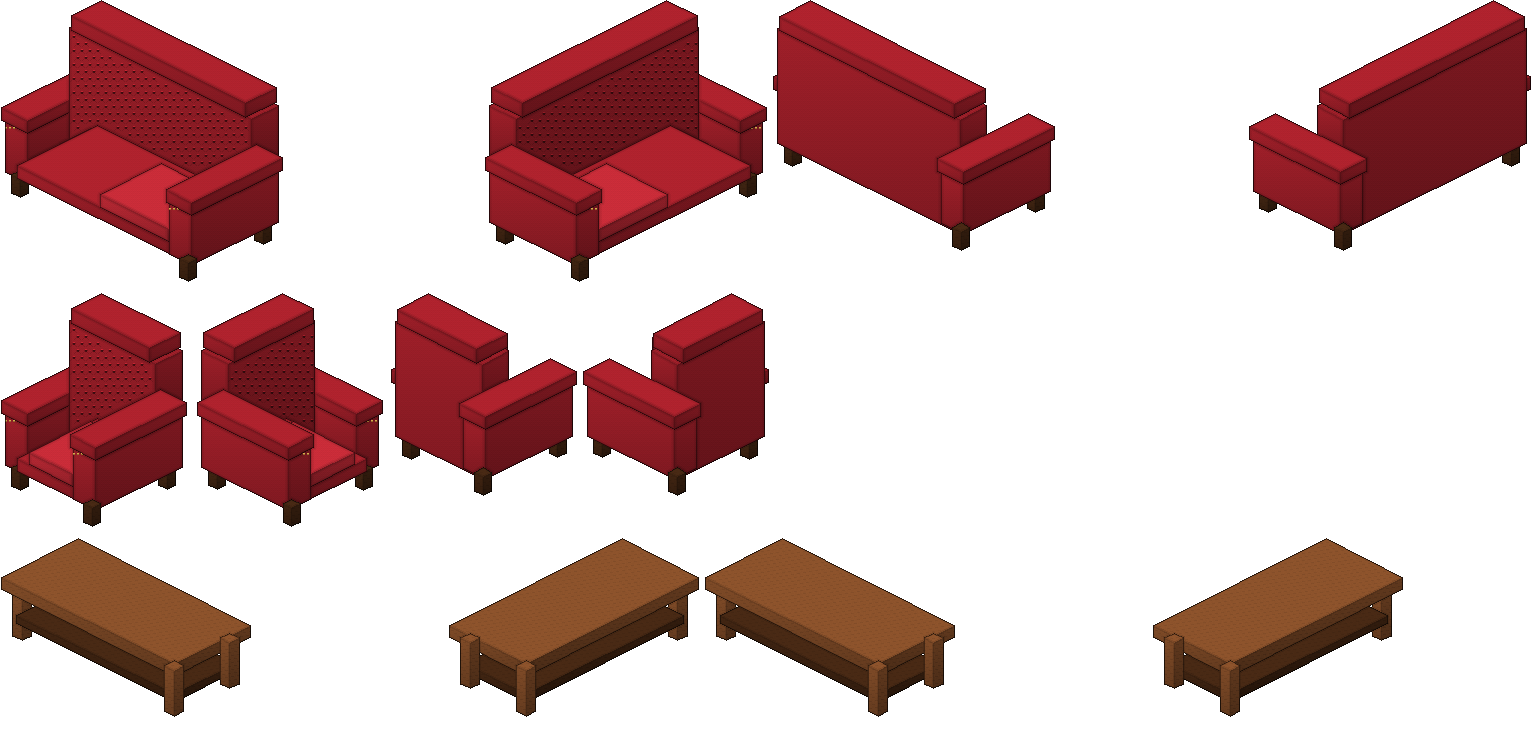
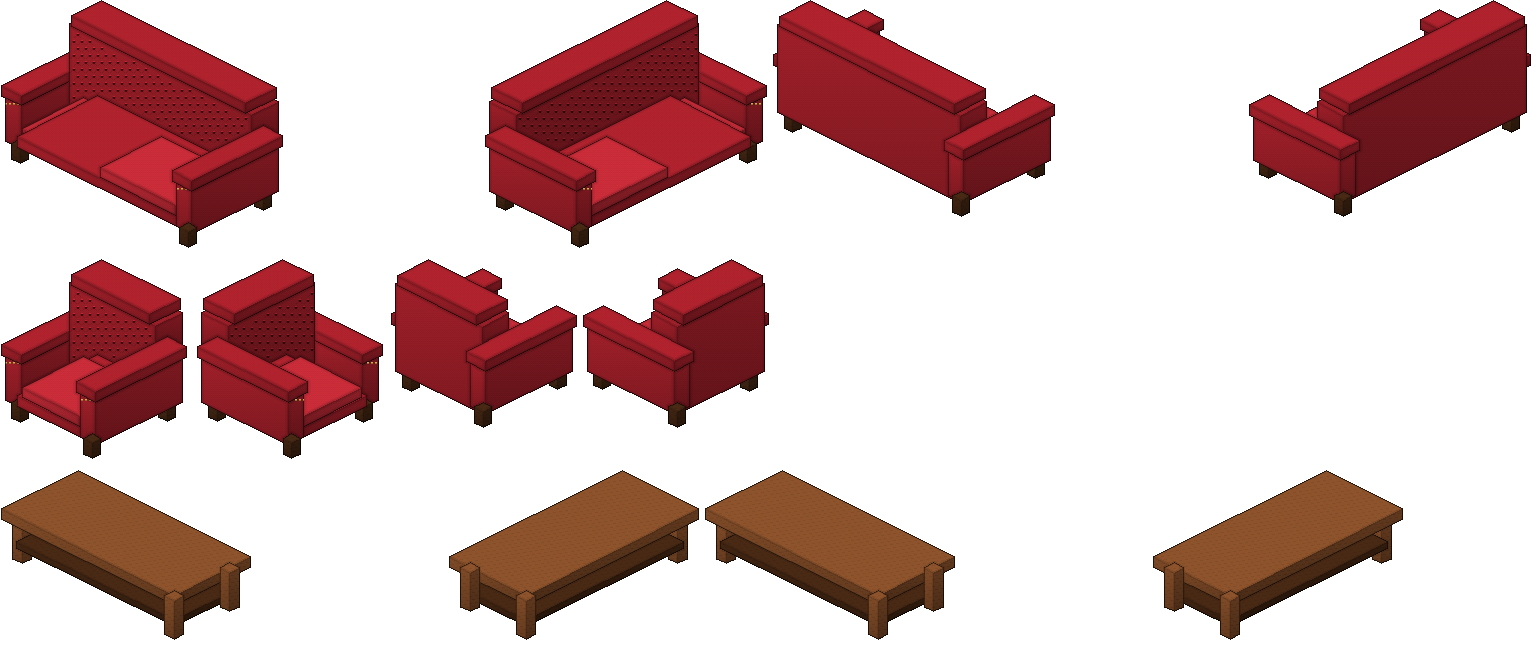
Sofaen virker: hver sin side, lavere møbler, roligere gang

diff --git a/js/spil.js b/js/spil.js
@@ -58,6 +58,7 @@ function skarptLaerred() {
 // Et felt på gulvet er en "rude" (diamant), 96 pixels bred og 48 høj.
 const FLISE_B = 96;
 const FLISE_H = 48;
+const FELT_FART = 64 / FLISE_B;   // farten er i felter pr. sekund; større felter = lidt færre felter pr. sekund
 const VAEG_HOEJDE = 110;
 const START = { x: BREDDE / 2, y: 170 };   // hvor det bagerste hjørne af gulvet står (regnes ud i skarptLaerred)
 
@@ -185,6 +186,8 @@ function pladsTil(type, x, y, spejlet, uden) {
 // Hvor på skærmen møblet tegnes: midt mellem dets felter, med bunden på det forreste hjørne
 function moebelSted(type, x, y, spejlet) {
   const f = moebelFelter(type, spejlet);
+  // de nye møbler (klipper) er tegnet, så billedets bund-midte er møblets forreste hjørne
+  if (type && type.klipper) return punkt(x + f[0], y + f[1]);
   return { x: punkt(x + f[0] / 2, y + f[1] / 2).x, y: punkt(x + f[0], y + f[1]).y - FLISE_H / 2 };
 }
 
@@ -293,7 +296,9 @@ function saedePladser(m) {
   if (t.felter) {
     const n = t.felter[0] * t.felter[1];
     const vej = drejetTvaers(m) ? -1 : 1;
-    return Array.from({ length: n }, function (_, i) { return (i - (n - 1) / 2) * 20 * vej; });
+    // (rykket lidt ind mod midten, så man sidder på puden og ikke på armlænet)
+    const ind = 0.02 * FLISE_B;
+    return Array.from({ length: n }, function (_, i) { return -(i - (n - 1) / 2) * ind * vej; });
   }
   const bred = t.klip ? t.klip[2] * (t.skala || 1) >= 95 : t.tegning === "sofa";
   if (!bred) return [0];
@@ -514,7 +519,7 @@ function tegnMoebel(c, type, cx, cy, spejlet, retning) {
 // hvor mange pixels figuren rykker tilbage mod ryglænet, når den sidder
 const SIDDE_BAGUD = 6;
 // hvor langt under figurens felt-midte fødderne skal nå for at stå på gulvet foran sofaen
-const FODKANT = 14;
+const FODKANT = 16;
 
 // Når figuren sidder i et af de nye møbler, rykkes den lidt frem og ned,
 // så fødderne når gulvet. Figurer med korte ben (pigen) rykkes mere end drengen.
@@ -526,7 +531,10 @@ function fodJustering(m, valg, retning) {
   if (!d || !t.saede) return { x: 0, y: 0 };
   const fald = (d.h - d.ay) * f.skala;   // fra numsen ned til fødderne
   const mangler = Math.max(0, FODKANT - (fald - t.saede));
-  return { x: (venderHoejre(m) ? 1 : -1) * mangler, y: mangler };
+  // numsen sidder midt på puden (lidt foran feltets midte), og figuren synker
+  // lidt ned i puden, så fødderne når gulvet
+  const frem = 0.14;
+  return { x: (venderHoejre(m) ? 1 : -1) * frem * FLISE_B / 2, y: frem * FLISE_H / 2 + mangler };
 }
 
 function tegnFigur(c) {
@@ -633,7 +641,7 @@ function flytFigur(dt) {
   const dx = maal.x - figur.x;
   const dy = maal.y - figur.y;
   const afstand = Math.hypot(dx, dy);
-  const skridt = FIGUR.fart * dt;
+  const skridt = FIGUR.fart * FELT_FART * dt;
 
   // Hvilken vej kigger figuren på skærmen?
   // (dx - dy) er højre/venstre, og (dx + dy) er ned mod os/op væk fra os
@@ -1231,6 +1239,14 @@ laerred.addEventListener("click", function (e) {
       const fig = figurFelt();
       if (daekker(m, fig.x, fig.y) && !figur.sidde) saetDig(m);
       else gaaTil(f.x, f.y, m);
+    } else {
+      // man sidder allerede i sofaen: klik på den anden side = ryk derover, hvis der er ledigt
+      const celle = cellePlads(m, f);
+      if (celle >= 0 && celle !== figur.sidde.plads && tagnePladser(m, figur).indexOf(celle) < 0) {
+        figur.x = f.x;
+        figur.y = f.y;
+        figur.sidde.plads = celle;
+      }
     }
   } else if (!m || MOEBEL_TYPER[m.type].kanGaaPaa) {
     gaaTil(f.x, f.y);

diff --git a/js/moebel-katalog.js b/js/moebel-katalog.js
@@ -21,9 +21,9 @@ MOEBLER.length = 0;
 //  felter:   [bredde, dybde] i felter (sofaen og sofabordet fylder 2)
 // -------------------------------------------------------------
 MOEBLER.push(
-  {"id": "ny-sofa", "navn": "Rød sofa", "billede": "billeder/moebler/nye-moebler.png", "klipper": [[0, 0, 382, 289], [386, 0, 382, 289], [772, 0, 378, 259], [1154, 0, 378, 259]], "klip": [0, 0, 382, 289], "kategori": "Nye møbler", "vender": "venstre", "skala": 0.5, "felter": [2, 1], "saede": 22},
-  {"id": "ny-laenestol", "navn": "Rød lænestol", "billede": "billeder/moebler/nye-moebler.png", "klipper": [[0, 293, 190, 241], [194, 293, 190, 241], [388, 293, 190, 211], [582, 293, 190, 211]], "klip": [0, 293, 190, 241], "kategori": "Nye møbler", "vender": "venstre", "skala": 0.5, "saede": 22},
-  {"id": "ny-sofabord", "navn": "Sofabord", "billede": "billeder/moebler/nye-moebler.png", "klipper": [[0, 538, 348, 195], [352, 538, 348, 195], [704, 538, 348, 195], [1056, 538, 348, 195]], "klip": [0, 538, 348, 195], "kategori": "Nye møbler", "vender": "venstre", "skala": 0.5, "felter": [2, 1]},
+  {"id": "ny-sofa", "navn": "Rød sofa", "billede": "billeder/moebler/nye-moebler.png", "klipper": [[0, 0, 382, 255], [386, 0, 382, 255], [772, 0, 378, 225], [1154, 0, 378, 225]], "klip": [0, 0, 382, 255], "kategori": "Nye møbler", "vender": "venstre", "skala": 0.5, "felter": [2, 1], "saede": 19},
+  {"id": "ny-laenestol", "navn": "Rød lænestol", "billede": "billeder/moebler/nye-moebler.png", "klipper": [[0, 259, 190, 207], [194, 259, 190, 207], [388, 259, 190, 177], [582, 259, 190, 177]], "klip": [0, 259, 190, 207], "kategori": "Nye møbler", "vender": "venstre", "skala": 0.5, "saede": 19},
+  {"id": "ny-sofabord", "navn": "Sofabord", "billede": "billeder/moebler/nye-moebler.png", "klipper": [[0, 470, 348, 186], [352, 470, 348, 186], [704, 470, 348, 186], [1056, 470, 348, 186]], "klip": [0, 470, 348, 186], "kategori": "Nye møbler", "vender": "venstre", "skala": 0.5, "felter": [2, 1]},
 );
 
 

diff --git a/js/rigtige-spillere.js b/js/rigtige-spillere.js
@@ -142,7 +142,7 @@ function andreSpillereTing(ting) {
       const dx = g.maal.x - g.x, dy = g.maal.y - g.y, afstand = Math.hypot(dx, dy);
       if (afstand > 4) { g.x = g.maal.x; g.y = g.maal.y; g.rute = []; }
       else if (afstand > 0.02) {
-        const skridt = Math.min(afstand, Math.max(2.5, afstand * 3) * dt);
+        const skridt = Math.min(afstand, Math.max(2.5, afstand * 3) * FELT_FART * dt);
         g.x += dx / afstand * skridt; g.y += dy / afstand * skridt;
         g.trin += dt * 8;
         g.rute = [g.maal];

diff --git a/js/velkomsthal.js b/js/velkomsthal.js
@@ -382,7 +382,7 @@ function opdaterHal(dt) {
     const maal = g.rute[0];
     const dx = maal.x - g.x, dy = maal.y - g.y;
     const afstand = Math.hypot(dx, dy);
-    const skridt = 2.2 * dt;
+    const skridt = 2.2 * FELT_FART * dt;
     const lodret = dx + dy > 0.01 ? "ned" : dx + dy < -0.01 ? "op" : "";
     const vandret = dx - dy > 0.01 ? "hoejre" : dx - dy < -0.01 ? "venstre" : "";
     g.retning = lodret && vandret ? lodret + "-" + vandret : lodret || vandret || g.retning;
